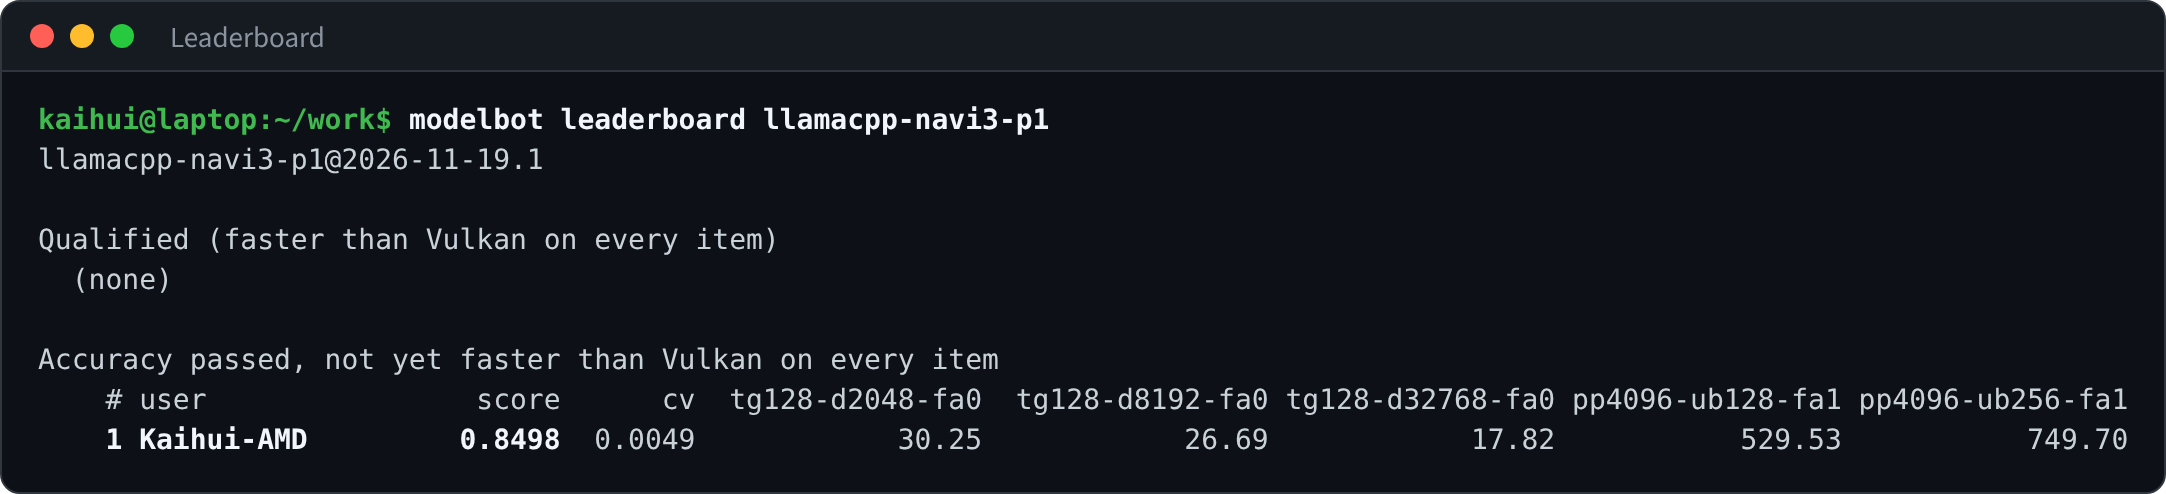
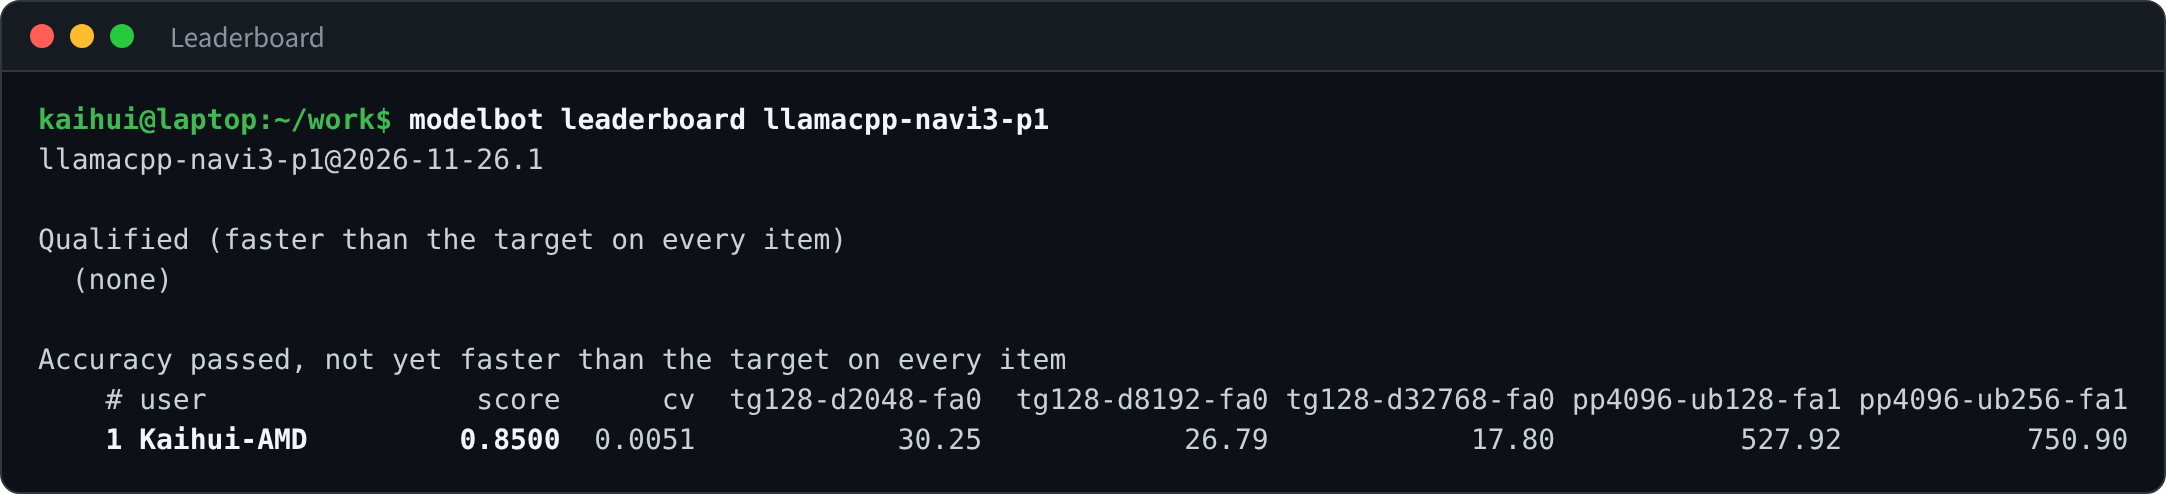
docs: update (modelbot-cli 0.5.0)

diff --git a/README.md b/README.md
@@ -98,7 +98,7 @@ The CLI checks the status every 10 seconds, prints a line when it changes, and e
 
 ![Result report](docs/images/c08-submit-leaderboard.png)
 
-The screenshot is the unmodified code on problem 1.
+The screenshot is the unmodified code on problem 1: score 0.8500, and only `pp4096-ub256-fa1` is faster than its target.
 
 ## 6. When a submission fails
 

diff --git a/README.zh-CN.md b/README.zh-CN.md
@@ -98,7 +98,7 @@ CLI 每 10 秒查询一次状态，有变化就打印一行，最后打印结果
 
 ![结果报告](docs/images/c08-submit-leaderboard.png)
 
-截图是第 1 题未修改的代码。
+截图是第 1 题未修改的代码：分数 0.8500，只有 `pp4096-ub256-fa1` 快过 target。
 
 ## 6. 没通过时会看到什么
 
